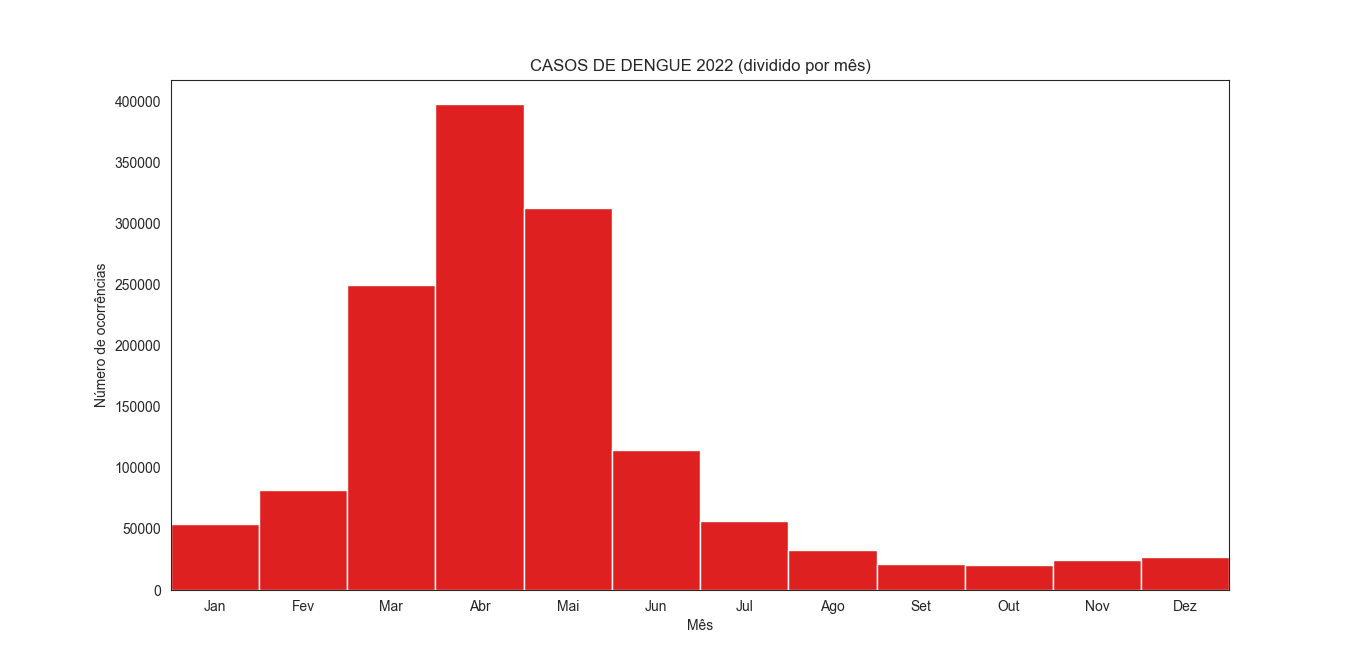
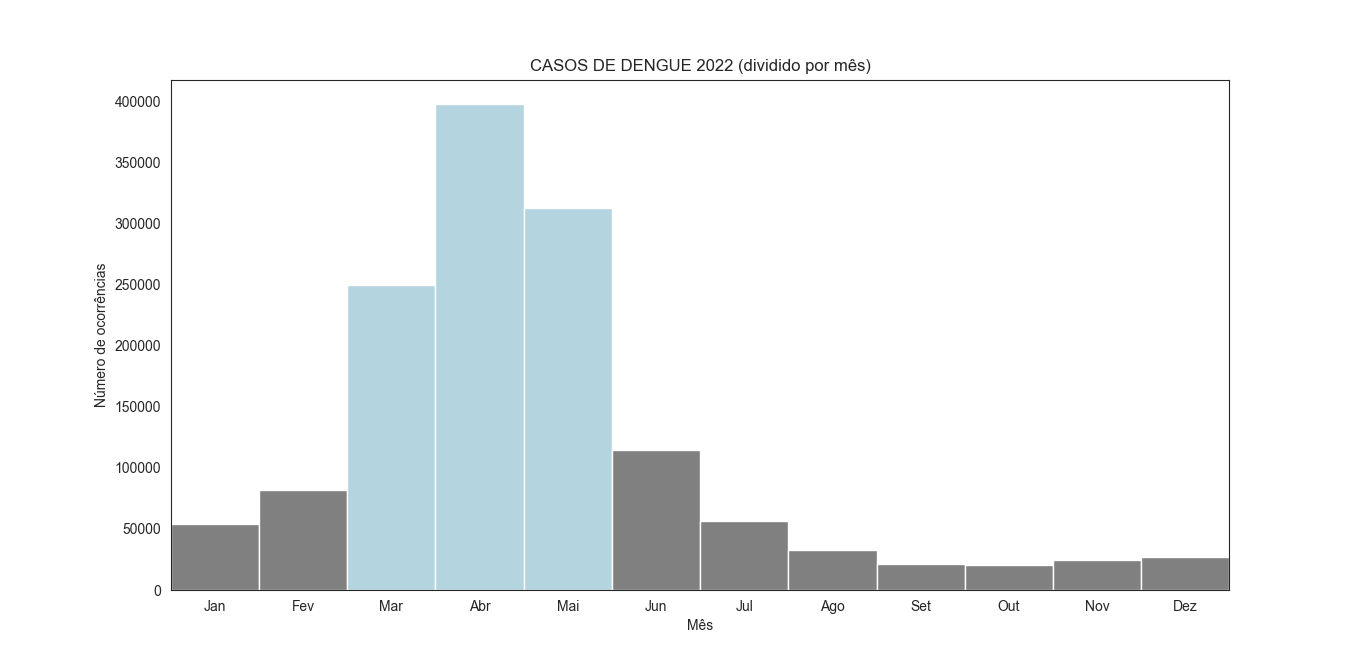
Finalizando a hipótese 2

Changed region(s): [[0.123, 0.1508, 0.9224, 0.905]]

diff --git a/src/hypothesis/hypothesis_2.py b/src/hypothesis/hypothesis_2.py
@@ -47,11 +47,11 @@ def hypothesis2_part1(df:pd.DataFrame):
 
     # Plotando os histogramas do total de casos de dengue de cada ano por mês
     order = ["Jan", "Fev", "Mar", "Abr", "Mai", "Jun", "Jul", "Ago", "Set", "Out", "Nov", "Dez"]
-    dfs1 = [df1, df2, df3, df4]
+    dfs1 = [df1, df2, df3]
     ano = 2021
     for data in dfs1:
         sns.set_style("white")
-        sns.countplot(data=data, x="MESES", order=order, palette='rocket', width=1, hue="MESES")
+        sns.countplot(data=data, x="MESES", order=order, palette=['lightblue' if cat in ['Mar', 'Abr', 'Mai'] else 'gray' for cat in order], width=1)
         plt.title(f"CASOS DE DENGUE {ano} (dividido por mês)")
         plt.xlabel("Mês")
         plt.ylabel("Número de ocorrências")
@@ -60,6 +60,13 @@ def hypothesis2_part1(df:pd.DataFrame):
         # Salvando o plot na pasta output
         #plt.savefig(os.path.join(OUTPUT_FOLDER(), f"casos_dengue_{ano}.png"))
         ano +=1
+
+    sns.set_style("white")
+    sns.countplot(data=df4, x="MESES", order=order, palette=['lightblue' if cat in ['Fev', 'Mar'] else 'gray' for cat in order], width=1)
+    plt.title(f"CASOS DE DENGUE 2024 (dividido por mês)")
+    plt.xlabel("Mês")
+    plt.ylabel("Número de ocorrências")
+    plt.show()
 
     # Plotando o histograma com a linha KDE do período total para a visualização do padrão
     sns.set_style("white")
@@ -78,7 +85,6 @@ def hypothesis2_part2(df:pd.DataFrame):
 
     # Fazendo a tabela com o total de casos, total de óbitos e taxa de mortalidade por cada estado 
     dengue = count_dengue_cases_by_state(df, ["SG_UF_NOT", "EVOLUCAO", "SIGLA_UF"])
-    print(dengue)
 
     # Salvando a tabela na pasta output
     #dengue.to_csv(os.path.join(OUTPUT_FOLDER(), "tabela_por_estado.csv"), index=False)
